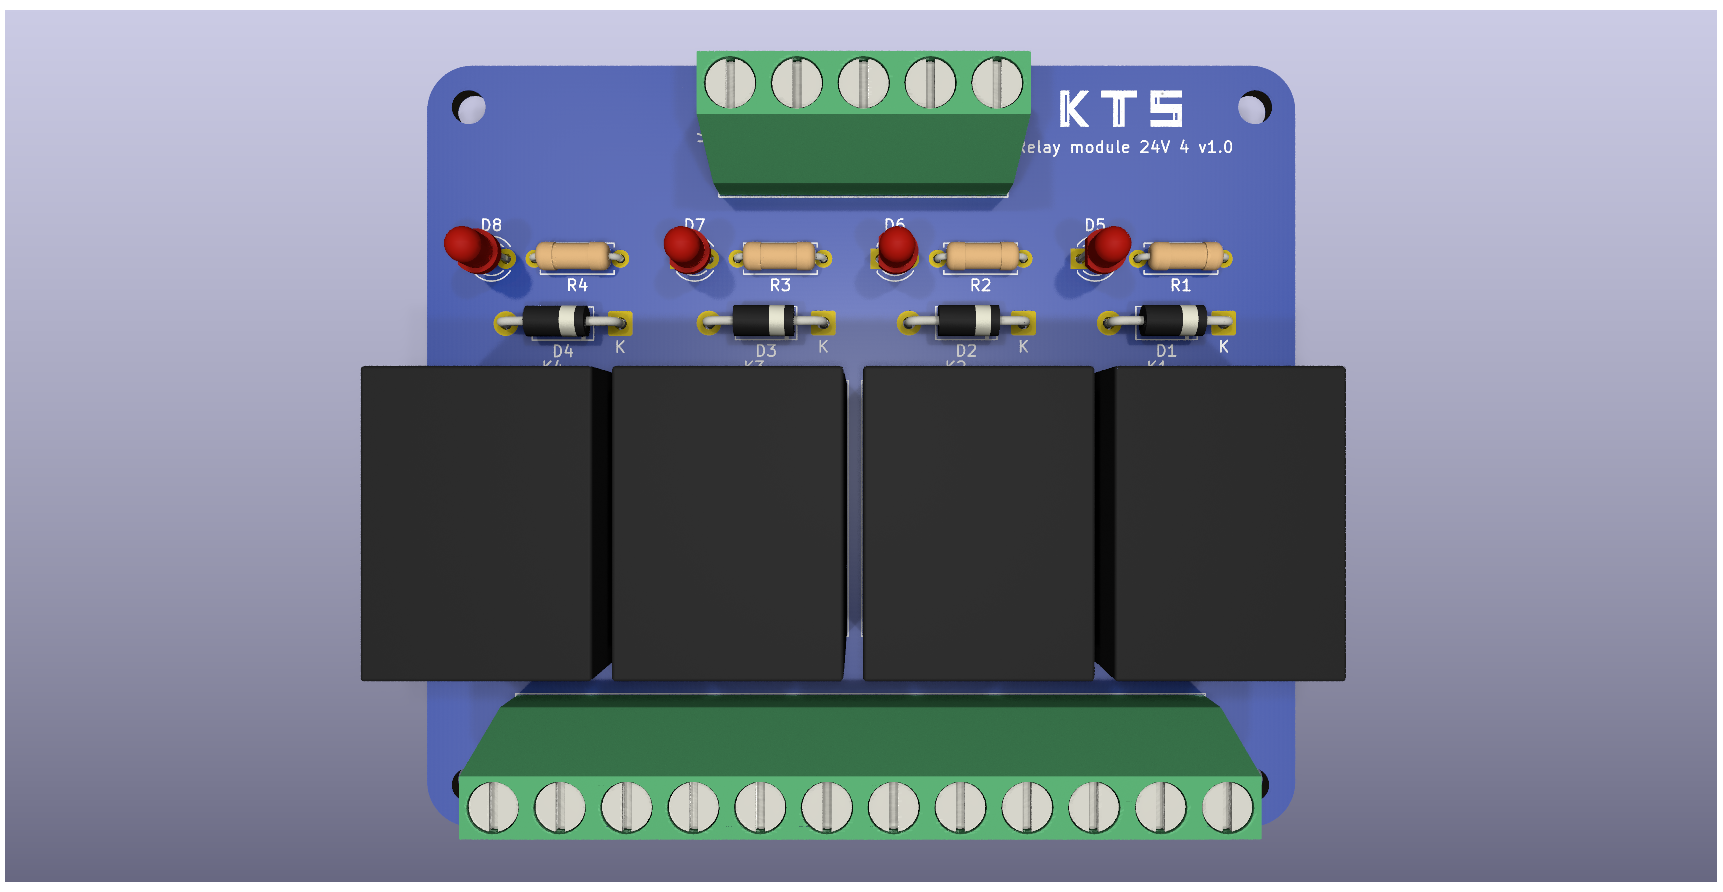
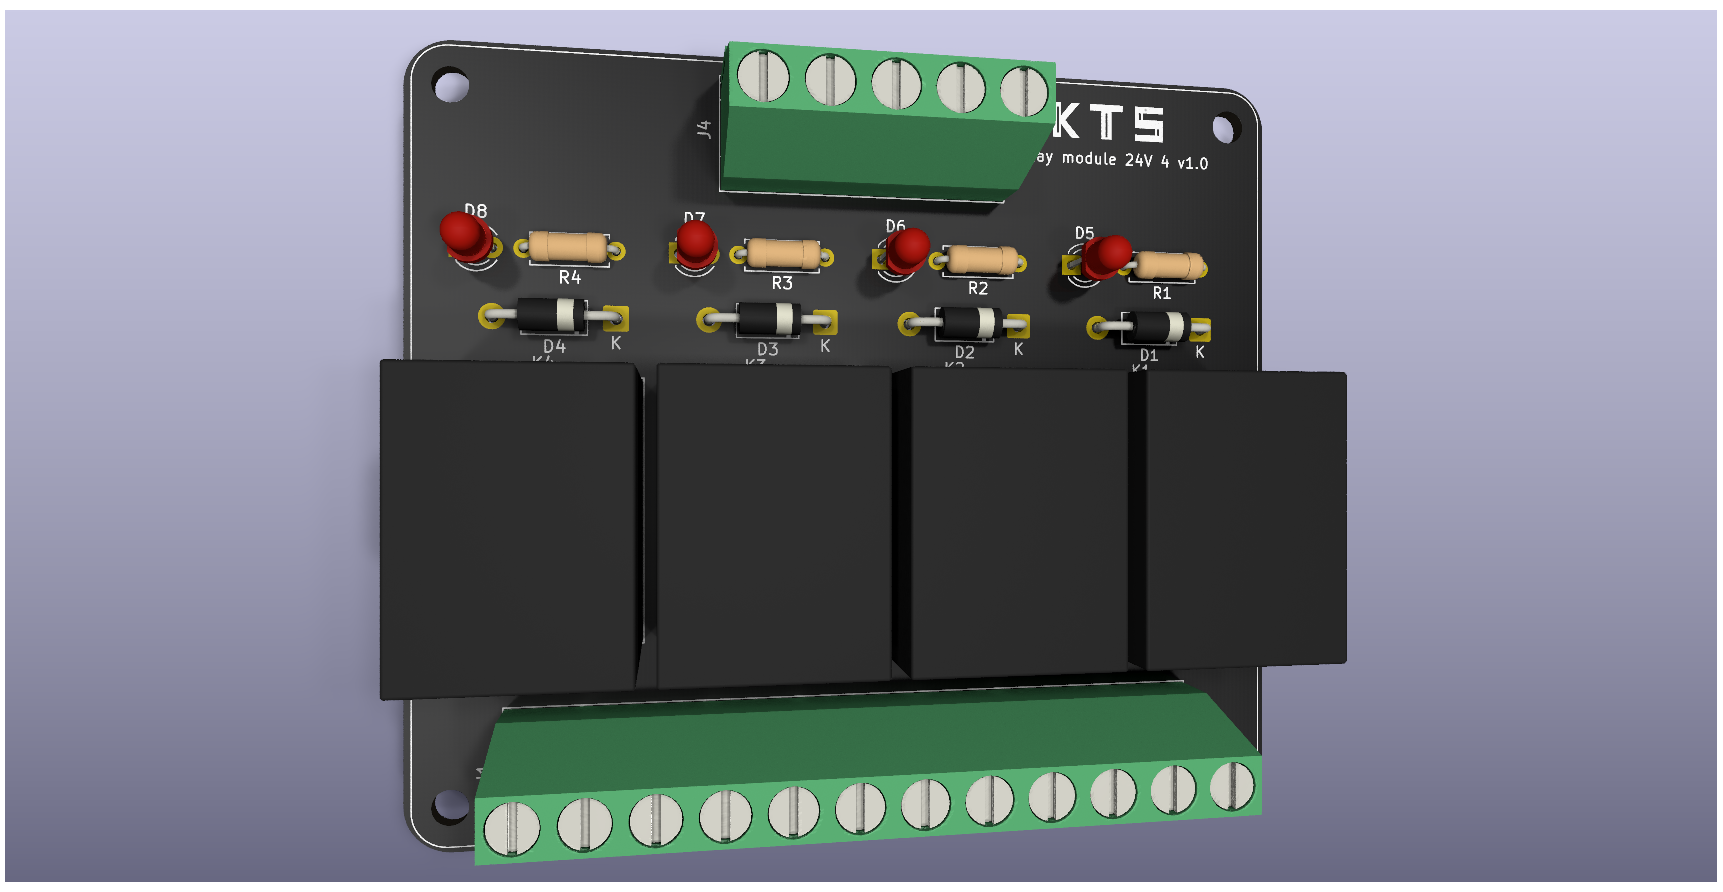
v1.0.0

Changed region(s): [[0.1846, 0.0303, 0.7998, 0.9686]]

diff --git a/index.html b/index.html
@@ -32,21 +32,26 @@
     <h2>My Electronics projects</h2>
     <ul>
       <li>
-        <a href="https://github.com/gkeiel/pcb_design_kicad/tree/main/open/relay_module_12v_optocoupler" target="_blank">Relay module 12V optocoupler</a>
-        <p>PCB design of a 12V relay module with optocoupler (KiCad).</p>
-        <img src="images/relay_module_12v_optocoupler_t.png" alt="Screenshot of Project">
+        <a href="https://github.com/gkeiel/pcb_design_kicad/tree/main/relay_module_12v_optocoupler_smt" target="_blank">Relay module 12V optocoupler SMT</a>
+        <p>PCB design of a 12V relay module SMT with optocoupler (KiCad).</p>
+        <img src="images/relay_module_12v_optocoupler_smt_t.png" alt="Screenshot of Project">
 
-        <a href="https://github.com/gkeiel/pcb_design_kicad/tree/main/open/relay_module_24v_4" target="_blank">Relay module 24v 4</a>
-        <p>PCB design of a four-channels 24V relay module (KiCad).</p>
+        <a href="https://github.com/gkeiel/pcb_design_kicad/tree/main/relay_module_24v_4" target="_blank">Relay module 24v 4 channels</a>
+        <p>PCB design of a four-channel 24V relay module (KiCad).</p>
         <img src="images/relay_module_24v_4_t.png" alt="Screenshot of Project">
 
-        <a href="https://github.com/gkeiel/electronics/tree/main/voltage_signal_conditioner" target="_blank">Voltage signal conditioner</a>
+        <a href="https://github.com/gkeiel/pcb_design_kicad/tree/main/arduino_nano_cc_driver" target="_blank">Arduino Nano CC driver</a>
+        <p>PCB design of a carrier board for Arduino Nano with CC driver and voltage sensor. (KiCad).</p>
+        <img src="images/carrier_board_arduino_current_driver_t.png" alt="Screenshot of Project">
+
+        <!--<a href="https://github.com/gkeiel/electronics/tree/main/voltage_signal_conditioner" target="_blank">Voltage signal conditioner</a>
         <p>PCB design of a voltage signal conditioner (EAGLE).</p>
         <img src="images/voltage_conditioner.png" alt="Screenshot of Project">
 
         <a href="https://github.com/gkeiel/electronics/tree/main/voltage_difference_detector" target="_blank">Voltage difference detector</a>
         <p>PCB design of a voltage difference detector (EAGLE).</p>
         <img src="images/voltage_difference_detector.png" alt="Screenshot of Project" style="transform: rotate(90deg); width: 300px; height: auto;">
+        -->
     </ul>
   </section>
 
